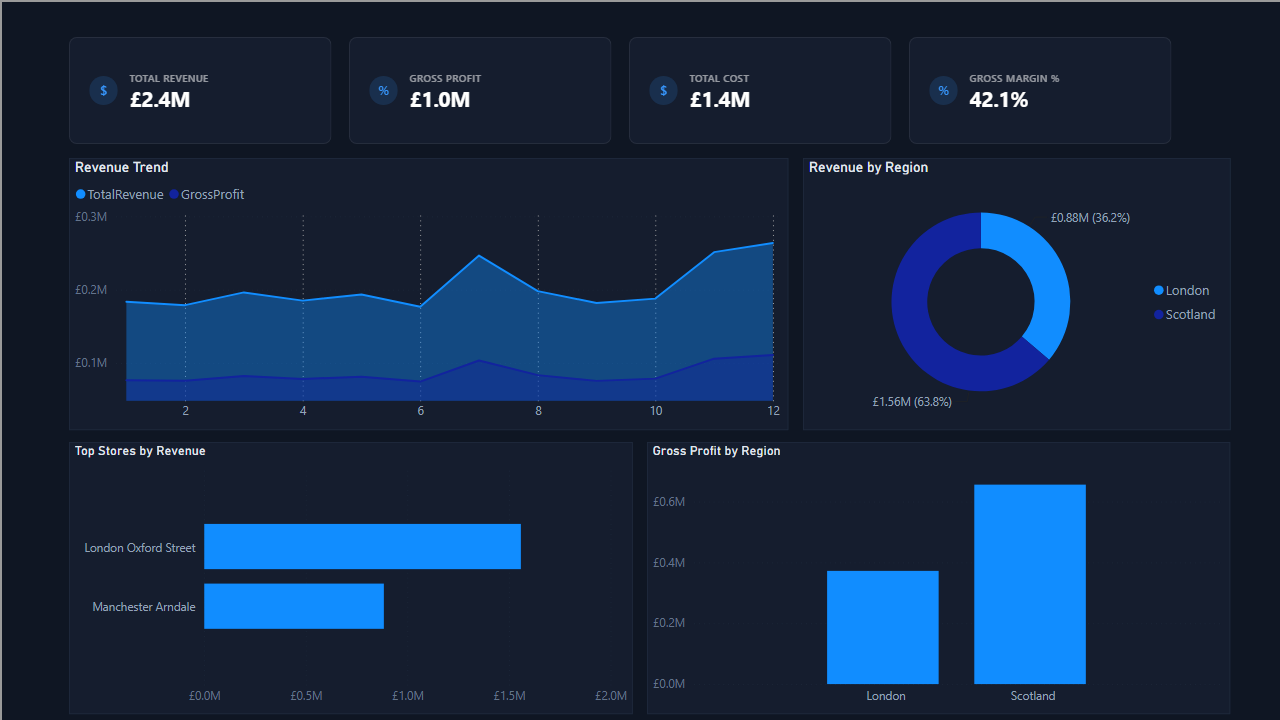
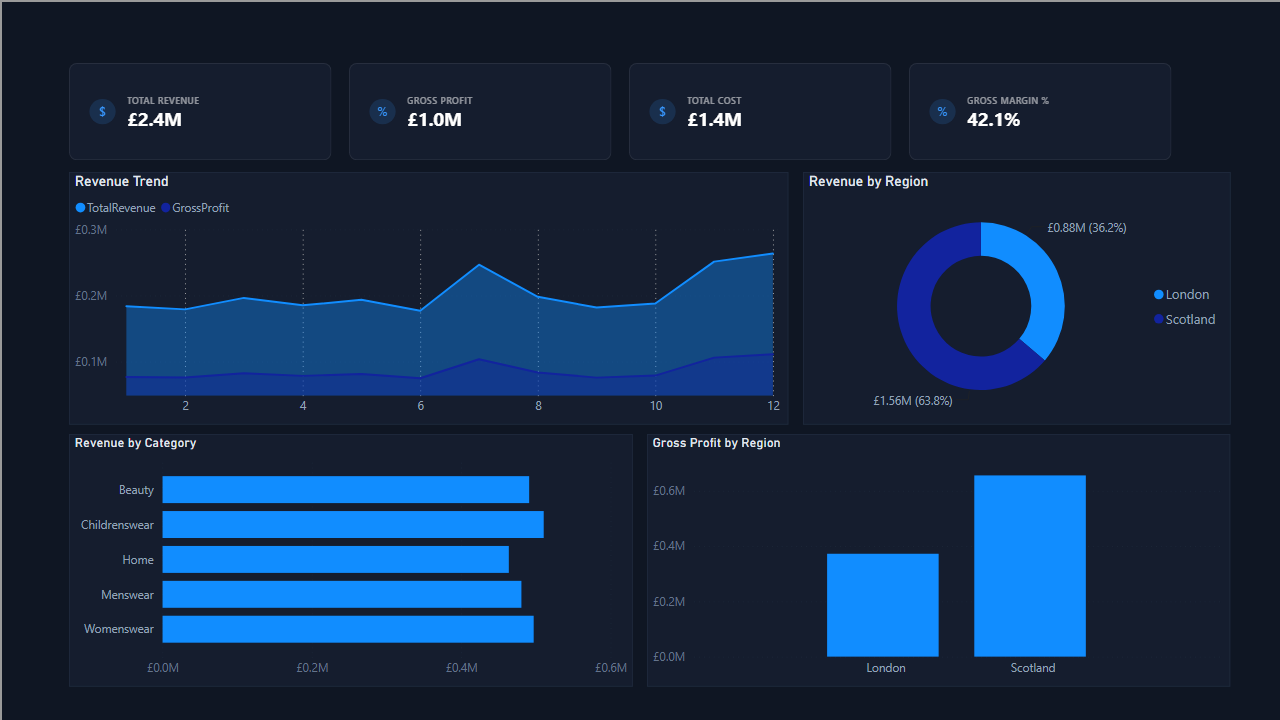
wip(07e): larger KPI values, Revenue by Category (5 bars), varied colors

diff --git a/custom-visuals/premiumKPI/style/visual.less b/custom-visuals/premiumKPI/style/visual.less
@@ -55,7 +55,7 @@
 }
 
 .kpi-value {
-    font-size: 32px;
+    font-size: 36px;
     font-weight: 700;
     color: #ffffff;
     letter-spacing: -0.5px;

diff --git a/scripts/_deploy_exec_v1.py b/scripts/_deploy_exec_v1.py
@@ -93,7 +93,7 @@ add("definition/report.json", {
 # Dark theme
 dark_theme = {
     "name": "ExecutiveDark",
-    "dataColors": ["#3898ff", "#34d399", "#a78bfa", "#fbbf24", "#f87171", "#06b6d4"],
+    "dataColors": ["#3898ff", "#a78bfa", "#34d399", "#fbbf24", "#f87171", "#06b6d4", "#818cf8", "#fb923c"],
     "background": "#0f1623",
     "foreground": "#ffffff",
     "foregroundNeutralSecondary": "#94a3b8",
@@ -150,6 +150,8 @@ kpi_measures = [
     ("Gross Margin", "Sales", "GrossMarginPct"),
 ]
 
+kpi_start_x = 50
+
 # Visual container helper
 def vis_container(name, x, y, w, h, z_idx):
     return {
@@ -160,10 +162,26 @@ def vis_container(name, x, y, w, h, z_idx):
 
 # ===== KPI ROW (4 cards) =====
 kpi_width = 270
-kpi_height = 110
+kpi_height = 100
 kpi_gap = 18
-kpi_start_x = 50
-kpi_y = 15
+kpi_y = 42
+
+# ===== PAGE TITLE =====
+title_vis = vis_container("pagetitle", kpi_start_x, 8, 400, 30, 99)
+title_vis["visual"] = {
+    "visualType": "textbox",
+    "objects": {
+        "general": [{"properties": {
+            "paragraphs": {"expr": {"Literal": {"Value": "[{\"textRuns\":[{\"value\":\"Executive Overview\",\"textStyle\":{\"fontWeight\":\"bold\",\"fontSize\":\"16px\",\"color\":\"#e2e8f0\"}}]}]"}}},
+        }}],
+    },
+    "visualContainerObjects": {
+        "background": [{"properties": {"show": {"expr": {"Literal": {"Value": "false"}}}}}],
+        "border": [{"properties": {"show": {"expr": {"Literal": {"Value": "false"}}}}}],
+        "title": [{"properties": {"show": {"expr": {"Literal": {"Value": "false"}}}}}],
+    },
+}
+add("definition/pages/exec/visuals/pagetitle/visual.json", title_vis)
 
 for i, (label, entity, prop) in enumerate(kpi_measures):
     x = kpi_start_x + i * (kpi_width + kpi_gap)
@@ -190,8 +208,8 @@ for i, (label, entity, prop) in enumerate(kpi_measures):
     add(f"definition/pages/exec/visuals/kpi{i+1}/visual.json", vis)
 
 # ===== HERO LINE CHART (Revenue over time) =====
-hero_y = kpi_y + kpi_height + 15
-hero_vis = vis_container("hero_line", kpi_start_x, hero_y, 740, 280, 10)
+hero_y = kpi_y + kpi_height + 12
+hero_vis = vis_container("hero_line", kpi_start_x, hero_y, 740, 260, 10)
 hero_vis["visual"] = {
     "visualType": "areaChart",
     "query": {"queryState": {
@@ -253,7 +271,7 @@ add("definition/pages/exec/visuals/hero_line/visual.json", hero_vis)
 
 # ===== DONUT CHART (Revenue by Region) =====
 donut_x = kpi_start_x + 740 + 15
-donut_vis = vis_container("donut_region", donut_x, hero_y, 440, 280, 11)
+donut_vis = vis_container("donut_region", donut_x, hero_y, 440, 260, 11)
 donut_vis["visual"] = {
     "visualType": "donutChart",
     "query": {"queryState": {
@@ -297,14 +315,14 @@ donut_vis["visual"] = {
 add("definition/pages/exec/visuals/donut_region/visual.json", donut_vis)
 
 # ===== BAR CHART (Revenue by Store) - bottom row =====
-bar_y = hero_y + 280 + 12
-bar_vis = vis_container("bar_stores", kpi_start_x, bar_y, 580, 280, 12)
+bar_y = hero_y + 260 + 10
+bar_vis = vis_container("bar_stores", kpi_start_x, bar_y, 580, 260, 12)
 bar_vis["visual"] = {
     "visualType": "barChart",
     "query": {"queryState": {
         "Category": {"projections": [{
-            "field": {"Column": {"Expression": {"SourceRef": {"Entity": "Store"}}, "Property": "StoreName"}},
-            "queryRef": "Store.StoreName", "nativeQueryRef": "StoreName",
+            "field": {"Column": {"Expression": {"SourceRef": {"Entity": "Product"}}, "Property": "CategoryName"}},
+            "queryRef": "Product.CategoryName", "nativeQueryRef": "CategoryName",
         }]},
         "Y": {"projections": [{
             "field": {"Measure": {"Expression": {"SourceRef": {"Entity": "Sales"}}, "Property": "TotalRevenue"}},
@@ -318,7 +336,7 @@ bar_vis["visual"] = {
     "visualContainerObjects": {
         "title": [{"properties": {
             "show": {"expr": {"Literal": {"Value": "true"}}},
-            "text": {"expr": {"Literal": {"Value": "'Top Stores by Revenue'"}}},
+            "text": {"expr": {"Literal": {"Value": "'Revenue by Category'"}}},
             "fontColor": {"solid": {"color": {"expr": {"Literal": {"Value": "'#e2e8f0'"}}}}},
             "fontSize": {"expr": {"Literal": {"Value": "11D"}}},
         }}],
@@ -338,7 +356,7 @@ add("definition/pages/exec/visuals/bar_stores/visual.json", bar_vis)
 
 # ===== SECOND BOTTOM PANEL (Gross Profit by Store) =====
 bar2_x = kpi_start_x + 580 + 15
-bar2_vis = vis_container("bar_profit", bar2_x, bar_y, 600, 280, 13)
+bar2_vis = vis_container("bar_profit", bar2_x, bar_y, 600, 260, 13)
 bar2_vis["visual"] = {
     "visualType": "columnChart",
     "query": {"queryState": {
